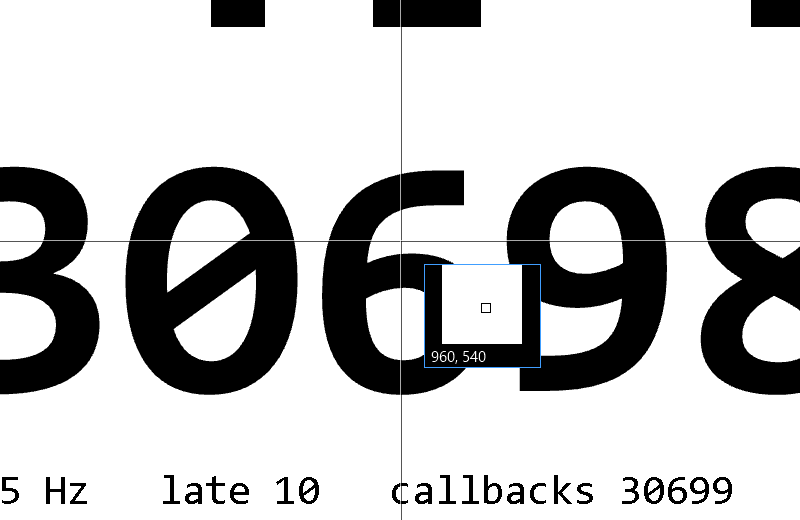
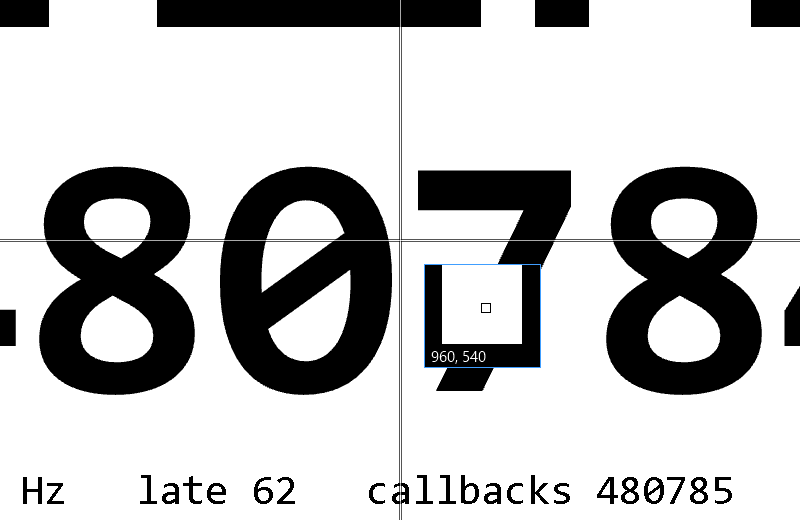
Record the final live run and make the ZIP test work on Linux
- The unit test of a failed ZIP uses a folder with the ZIP name as the
  blocker. A read-only file does not block a delete on Linux.
- HANDOFF 7.22: the tested exe hash, the R2 run on the final exe, the
  corrected list of test recordings, more Not checked items.
- Use the crosshair picture of the final build in docs/ui.
- Complete the build and run notes at the top of the live test driver.

diff --git a/tests/AiCaptureTests.cs b/tests/AiCaptureTests.cs
@@ -56,7 +56,7 @@ static class AiCaptureTests
     }
 
     // Folder mode gives one ZIP only (Bran, 2026-11-22).
-    // A read-only file with the ZIP name makes MakeZip fail. The live test (HANDOFF 7.22) found the temporary
+    // A folder with the ZIP name makes MakeZip fail (a read-only file does not block a delete on Linux; the live test R12 used one). The live test (HANDOFF 7.22) found the temporary
     // "<name>.zip.tmp" left next to the recordings after that failure.
     static void TestZipFailLeavesNoTemp()
     {
@@ -65,14 +65,12 @@ static class AiCaptureTests
         System.IO.Directory.CreateDirectory(folder);
         System.IO.File.WriteAllText(System.IO.Path.Combine(folder, "index.md"), "test");
         string zip = folder + ".zip";
-        System.IO.File.WriteAllText(zip, "blocker");
-        System.IO.File.SetAttributes(zip, System.IO.FileAttributes.ReadOnly);
+        System.IO.Directory.CreateDirectory(zip);
         bool threw = false;
         try { AfterRecording.MakeZip(folder); }
         catch (Exception) { threw = true; }
-        Expect(threw, "zip fail: MakeZip throws when the ZIP file is read-only");
+        Expect(threw, "zip fail: MakeZip throws when a folder has the ZIP name");
         Expect(!System.IO.File.Exists(zip + ".tmp"), "zip fail: no temporary file is left");
-        System.IO.File.SetAttributes(zip, System.IO.FileAttributes.Normal);
         System.IO.Directory.Delete(dir, true);
     }
 

diff --git a/test/live_ui_test.cs b/test/live_ui_test.cs
@@ -7,8 +7,10 @@
 //   & "$fw\csc.exe" /nologo /target:exe /out:"$env:TEMP\svr-live-all\LiveUiTest.exe" /r:System.Windows.Forms.dll /r:System.Drawing.dll
 //     /r:System.Management.dll /r:System.IO.Compression.dll /r:System.IO.Compression.FileSystem.dll /r:Microsoft.CSharp.dll
 //     /r:"$fw\WPF\UIAutomationClient.dll" /r:"$fw\WPF\UIAutomationTypes.dll" /r:"$fw\WPF\WindowsBase.dll"
-//     test\live_ui_test.cs AudioCapture.cs AudioTranscript.cs RecorderCore.cs RecordingSession.cs SettledFrames.cs AfterRecording.cs UiModel.cs
-// Run: LiveUiTest.exe <command> [names]. Commands: exit-tray <tooltip prefix>, mp4, folder [names], more [names].
+//     /r:System.Core.dll test\live_ui_test.cs test\live_ui_sessions.cs AudioCapture.cs AudioTranscript.cs RecorderCore.cs RecordingSession.cs SettledFrames.cs AfterRecording.cs UiModel.cs
+// Run: LiveUiTest.exe <command> [names]. Commands: exit-tray <tooltip prefix>, mp4, folder [names], more [names], look [dark-only], settings.
+// Before: exit the installed app (exit-tray "Desktop Recorder: stopped"), save settings.txt as settings.backup-2026-11-22-live-all.txt,
+// and show the tray icon of the test exe in the taskbar (IsPromoted=1 in HKCU\Control Panel\NotifyIconSettings\<entry of the exe>).
 // Output: %TEMP%\svr-live-all\run-<command>-<time>\ (log.txt, results.tsv, PNG files). The results also go to
 // %TEMP%\svr-live-all\results-all.tsv.
 using System;

diff --git a/HANDOFF.md b/HANDOFF.md
@@ -1335,6 +1335,8 @@ New test switch `DESKTOP_RECORDER_SHOW_IN_CAPTURE=1` (in `NativeMethods.ExcludeF
 
 The first runs gave more FAIL rows. All of them were driver faults (for example: the multiline text box is a "Document" in UI Automation; the popup texts start with an icon glyph; the expected ZIP was not the newest one), except the 8 bugs above.
 
+**Tested exe:** `DesktopRecorder-zip.exe` built at 22:22:35 from the code of this commit, SHA-256 starts with 7BEA53A7A4433864. After the review, one more `folder R2` run on that exe: 14 PASS (a real "Stop recording" click in the tray menu, a good ZIP, a late note, Explorer paste, the sound). Its A9-tray-busy row failed by the timing race described above: the menu opened just after "ready". R13 shows the busy status.
+
 **Checked (in this job, on Bran's PC):** all PASS rows above; the unit tests (`ok`) and the app build after each fix; the screenshots in `docs/ui/live-*.png` (24 files: note box, popup, tray menu light and dark, Settings pages, selector, frame and Stop button); the transcript step with whisper.cpp (it wrote rows of audio that another app played on the PC, because the sound of the PC is on in Bran's settings).
 
 **Not checked:**
@@ -1343,6 +1345,8 @@ The first runs gave more FAIL rows. All of them were driver faults (for example:
 - Fix 8 on the screen (it needs the hotkey to be used by another program).
 - A jump of the menu at the open: `Opened` moves the menu after it shows. Screenshots cannot show one frame. If Bran sees a jump: a `ContextMenuStrip` subclass that moves the place in `SetBoundsCore` (reviewer's advice).
 - A paste of the ZIP into a chat app (Claude desktop chat, a Claude cloud session, claude.ai, Gemini). Only Explorer and an Edit control.
+- Five committed pictures were not looked at one by one: live-tray-idle-125-light/dark, live-tray-recording-125-light, live-popup-busy-125-dark, live-note-question-125-dark (crops of the app windows on the counter page, cut at the taskbar top).
+- The new unit test of a failed ZIP uses a folder with the ZIP name as the blocker (a read-only file does not block a delete on Linux). The Mono build and the GitHub CI did not run it.
 - More monitors, other DPI, Windows 10, a real screen reader (only the UI Automation names), the recording tray icon in the real tray, the Mono build and the GitHub CI.
 
 **Seen, not changed (Bran decides):**
@@ -1353,7 +1357,7 @@ The first runs gave more FAIL rows. All of them were driver faults (for example:
 - UI Automation gives some Settings panels the text of a nearby label as their name (WinForms). A screen reader can read wrong names for these panels.
 - After Ctrl+Tab, the selected page in the Settings navigation has a black keyboard focus frame.
 
-**Test recordings (not deleted):** `C:\Users\Bran\Recordings\live-test-2026-11-22`: 31 ZIP files, 5 MP4 files (MP4-only tests), the folder `desktop_2026-11-22_21-43-44` (failed ZIP test; the folder stays by design) and `desktop_2026-11-22_21-43-44.zip.tmp` (left by the failed ZIP before fix 6), 17.4 MB in all. Scratch: `%TEMP%\svr-live-all` (driver, logs, screenshots, `paste-target-A9` with 3 pasted ZIPs).
+**Test recordings (not deleted):** `C:\Users\Bran\Recordings\live-test-2026-11-22`: 32 ZIP files, 5 MP4 files (MP4-only tests), the folders `desktop_2026-11-22_21-43-44` and `desktop_2026-11-22_22-22-40` (failed ZIP tests; the folder stays by design) and `desktop_2026-11-22_21-43-44.zip.tmp` (left by the failed ZIP before fix 6), 18.2 MB in all. Scratch: `%TEMP%\svr-live-all` (driver, logs, screenshots, `paste-target-A9` with 3 pasted ZIPs).
 
 **Restore at the end (checked):** the test exe exited through its tray menu; `settings.txt` is equal to the backup; the Run entry points at `%LOCALAPPDATA%\Programs\DesktopRecorder\DesktopRecorder.exe` again (the Settings test had changed it); `AppsUseLightTheme` = 1; `IsPromoted` of the test exe removed; the test Chrome profile closed; the installed app runs (tray icon "Desktop Recorder: stopped"). Restore script: `%TEMP%\svr-live-all\restore.ps1`.
 
